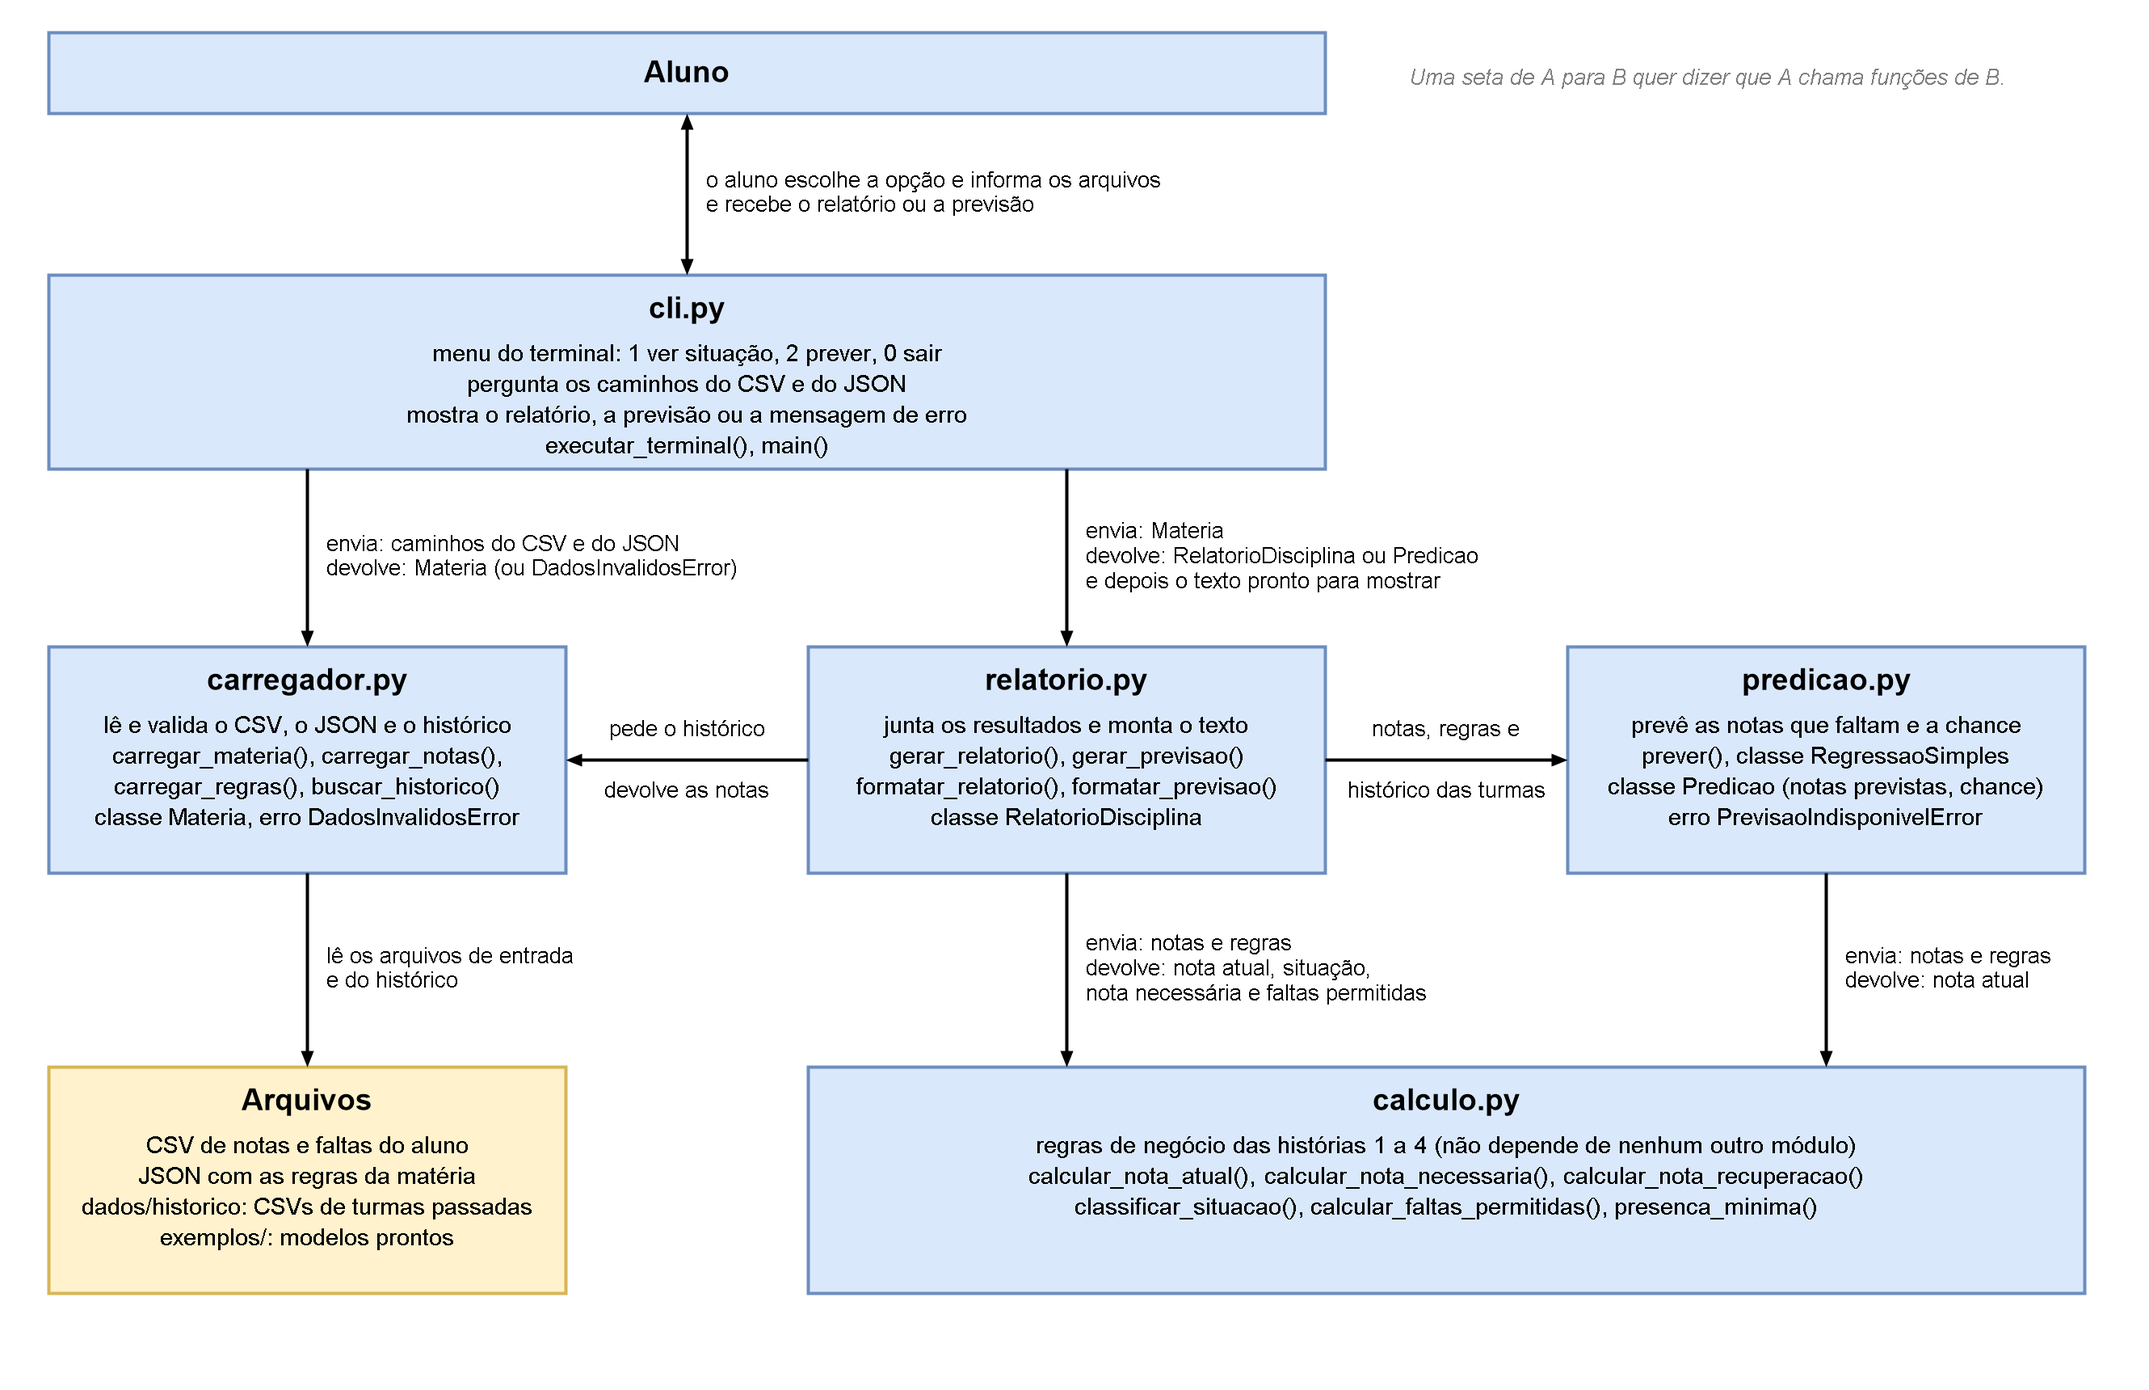
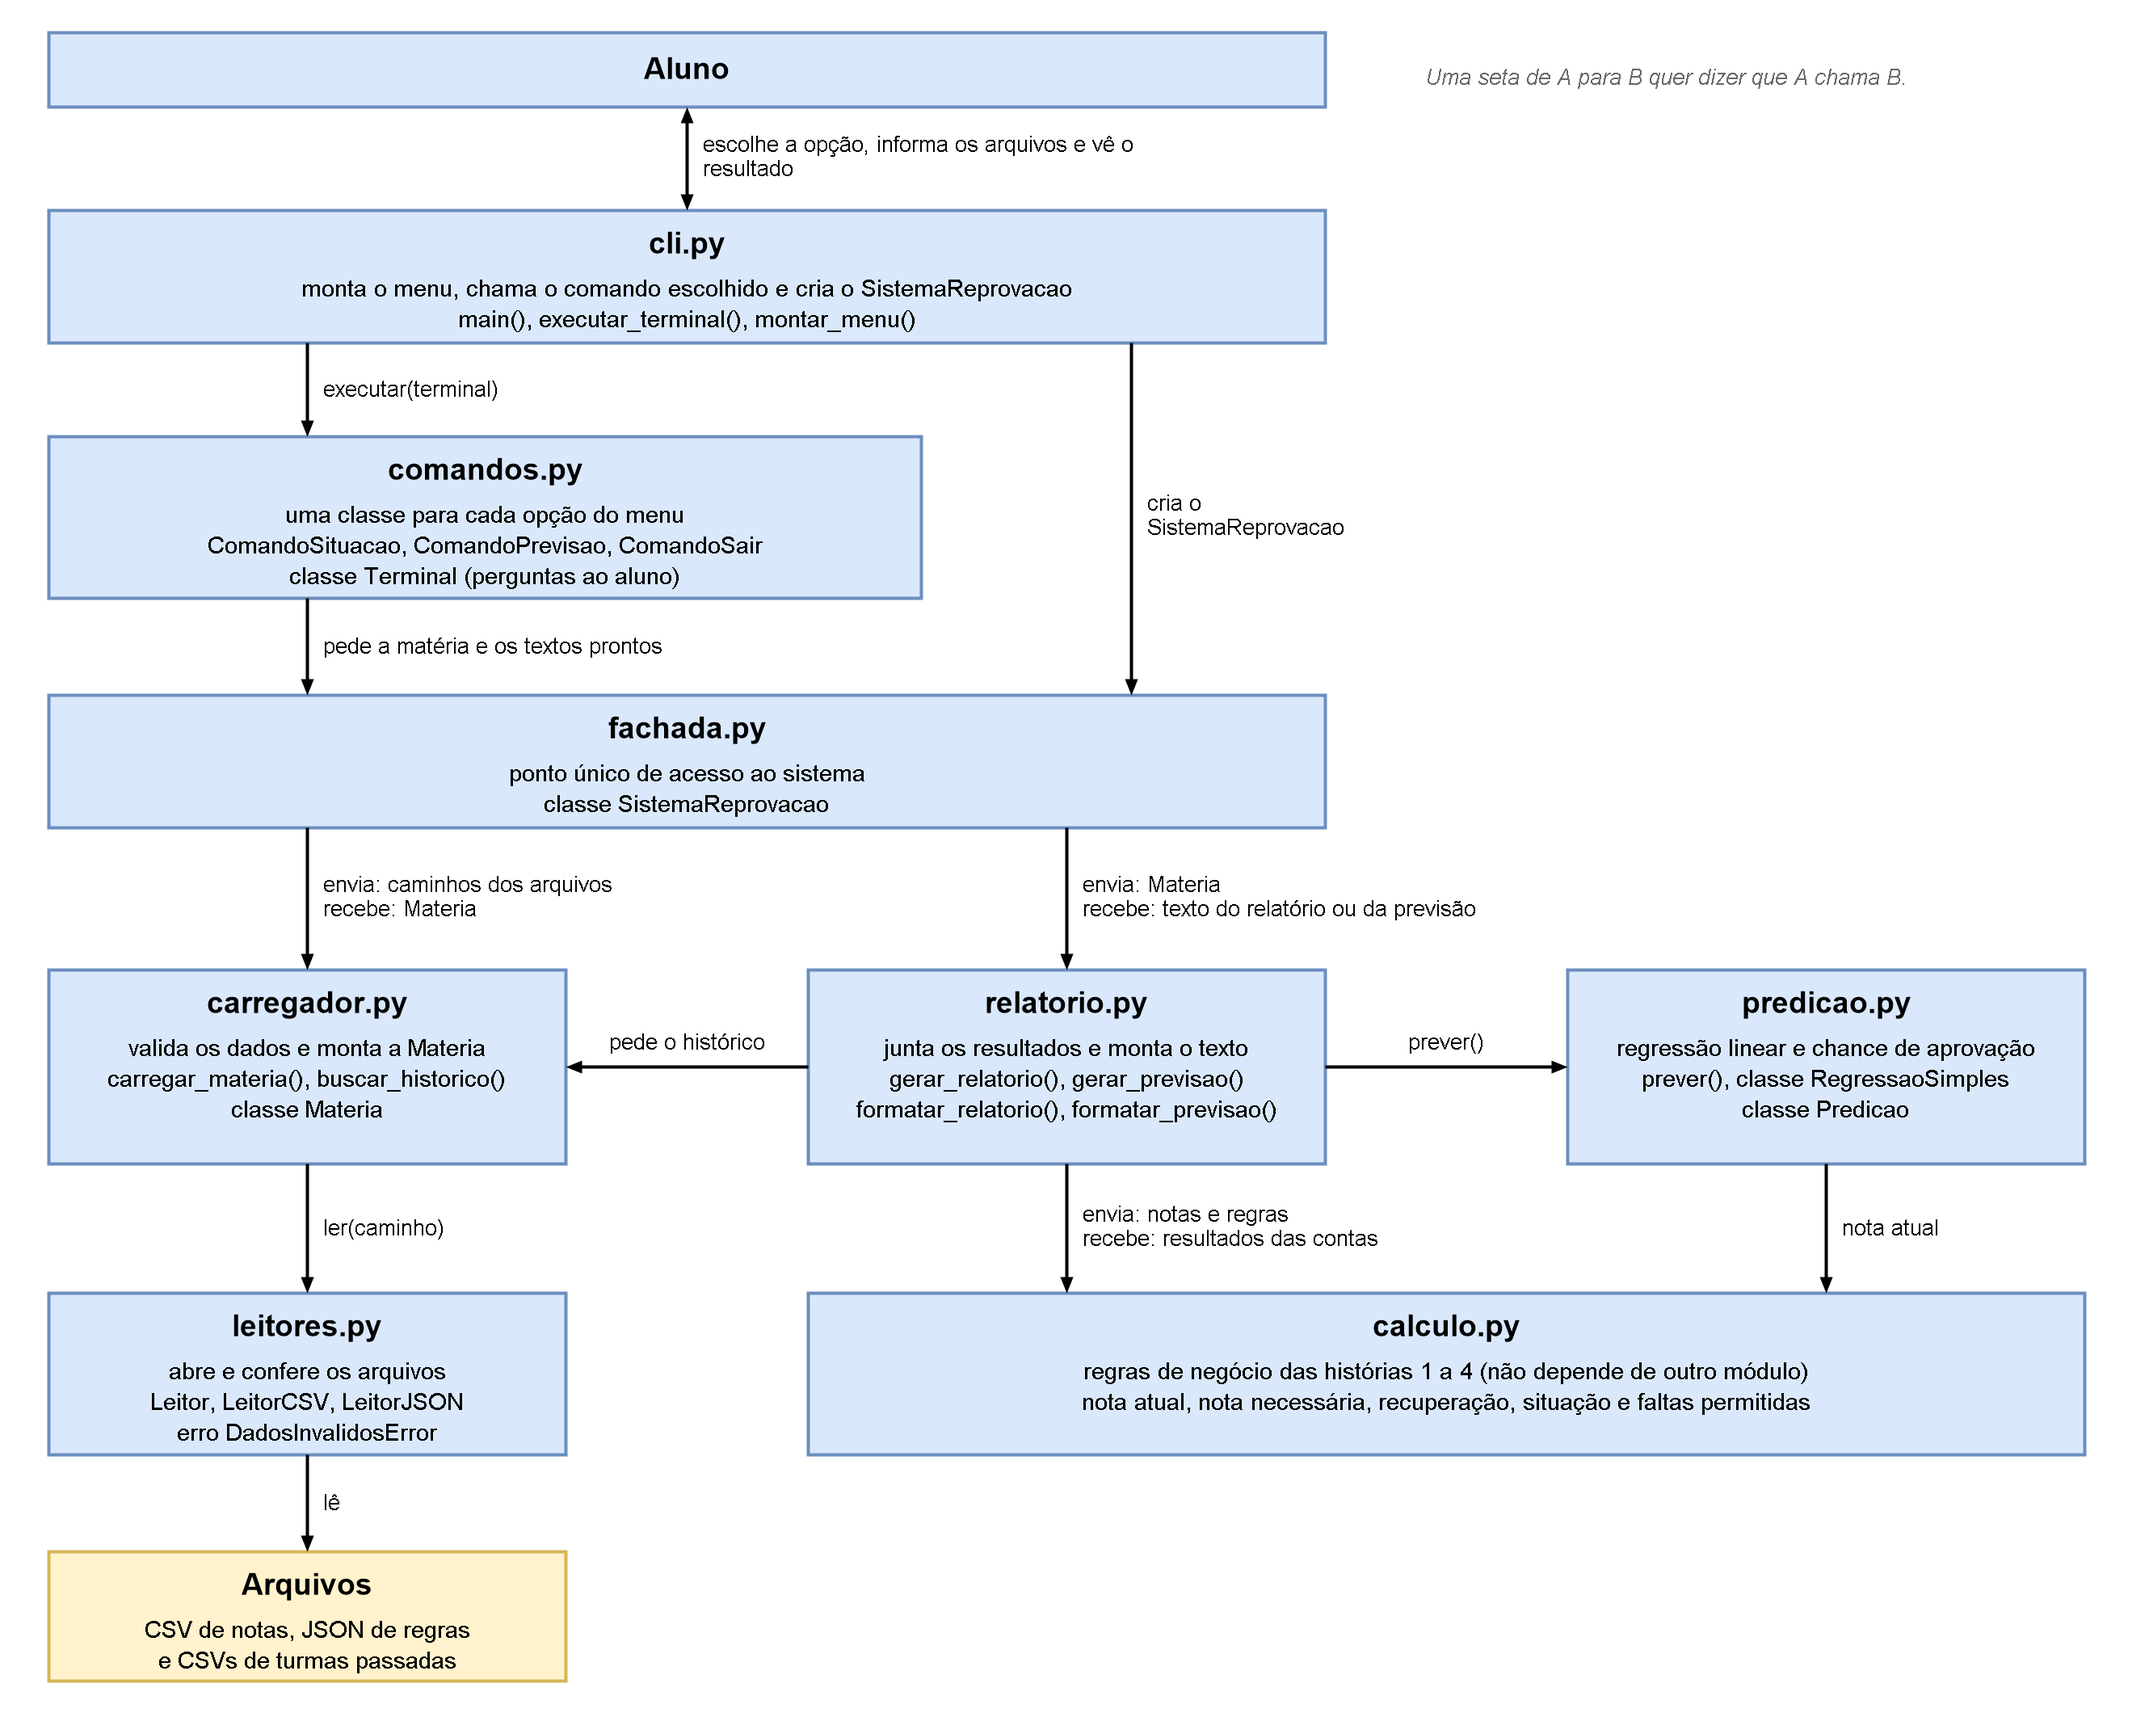
Atualiza diagramas e documenta os padroes

diff --git a/docs/padroes_de_projeto.md b/docs/padroes_de_projeto.md
@@ -1,0 +1,52 @@
+# Refatoração e padrões de projeto (Sprint 4)
+
+Nesta sprint o comportamento do sistema não mudou: a ideia foi reorganizar o código. Os 80 testes que já existiam continuam passando sem nenhuma alteração neles, e foram criados 23 testes para as classes novas (103 no total).
+
+## Template Method (`sistema/leitores.py`)
+
+![Template Method](padrao_template_method.png)
+
+**Problema.** O `carregador.py` tinha duas funções de leitura, uma para CSV e outra para JSON. As duas faziam a mesma sequência (ver se o arquivo existe, abrir, conferir o conteúdo) e a checagem de arquivo inexistente estava repetida.
+
+**Solução.** A classe `Leitor` tem o método `ler()`, que define a ordem dos passos: `verificar_existe`, `ler_conteudo` e `validar`. As classes `LeitorCSV` e `LeitorJSON` só escrevem os dois passos que mudam.
+
+**Por que esse padrão.** A ordem é sempre a mesma e só o miolo muda conforme o formato. Para aceitar um formato novo basta criar outra classe filha, sem mexer nas que já existem.
+
+**Ponto negativo.** Com apenas dois formatos, são mais linhas do que as duas funções antigas.
+
+## Facade (`sistema/fachada.py`)
+
+![Facade](padrao_facade.png)
+
+**Problema.** O terminal precisava conhecer o `carregador`, o `relatorio` e o `predicao`, além da ordem das chamadas (gerar e depois formatar).
+
+**Solução.** A classe `SistemaReprovacao` oferece quatro métodos: carregar a matéria, listar as matérias com previsão, relatório de situação e relatório de previsão. O terminal só fala com ela.
+
+**Por que esse padrão.** Separa a parte da tela da parte que faz o trabalho. Se um dia existir outra interface, ela pode usar a mesma fachada.
+
+**Ponto negativo.** É uma camada a mais, e uma função nova do sistema precisa ganhar um método na fachada.
+
+## Command (`sistema/comandos.py`)
+
+![Command](padrao_command.png)
+
+**Problema.** O menu era uma sequência de `if` e `elif`. Para criar uma opção era preciso mudar o texto do menu, o `if` e a mensagem de opção inválida.
+
+**Solução.** Cada opção virou uma classe que herda de `Comando` e tem `tecla`, `descricao` e `executar(terminal)`. O `cli.py` monta o menu a partir da lista `COMANDOS`. A classe `Terminal` guarda o que os comandos precisam: a fachada, a entrada, a saída e os últimos arquivos usados.
+
+**Por que esse padrão.** Uma opção nova é uma classe nova e um item na lista. O menu e a mensagem de erro se ajustam sozinhos.
+
+**Ponto negativo.** Para três opções, o `if` antigo era mais curto de ler.
+
+## Outras refatorações
+
+| Onde | Antes | Depois |
+|---|---|---|
+| `calculo.py` | `if` para cada faixa de presença | tabela `FAIXAS_PRESENCA` percorrida em um laço |
+| `calculo.py` | `classificar_situacao` fazia tudo em uma função | dividida em `_classificar_com_presenca` e `_frequencia_suficiente` |
+| `calculo.py` | tolerância `_EPS` repetida em várias comparações | função `_atingiu(valor, minimo)` |
+| `predicao.py` | `prever` com filtro, treino e chance juntos | funções `_alunos_para_treino`, `_treinar_modelos`, `_limitar_nota` e `_calcular_chance` |
+
+## Como conferimos
+
+A cada passo da refatoração rodamos `python -m pytest`. Os testes antigos não foram editados, então servem para mostrar que o comportamento se manteve.

diff --git a/docs/testes_e_criterios.md b/docs/testes_e_criterios.md
@@ -1,0 +1,40 @@
+# Relação entre testes e critérios de aceitação
+
+Os critérios estão em [historia_usuario.md](historia_usuario.md). Cada teste das histórias começa a docstring com o código do critério (por exemplo, `H3-C2` é a história 3, critério 2).
+
+| Critério | Arquivo | Teste |
+|---|---|---|
+| H1-C1 | `test/test1.py` | `test_criterios_prof` |
+| H1-C2 | `test/test1.py` | `test_calcular_notas` |
+| H1-C3 | `test/test1.py` | `test_av_pendentes` |
+| H1-C4 | `test/test1.py` | `test_nota_atual` |
+| H2-C1 | `test/test2.py` | `test_verifica_nota_atual` |
+| H2-C2 | `test/test2.py` | `test_verifica_reprovacao` |
+| H2-C3 | `test/test2.py` | `test_verifica_possibilidades` |
+| H2-C4 | `test/test2.py` | `test_verifica_nota_presenca` e `test_verifica_nota_presenca_atual` |
+| H3-C1 | `test/test3.py` | `test_informa_aulas_e_faltas` |
+| H3-C2 | `test/test3.py` | `test_limite_depende_da_nota` |
+| H3-C3 | `test/test3.py` | `test_regras_fixas_de_presenca` |
+| H3-C4 | `test/test3.py` | `test_faltas_permitidas_com_nota_6` |
+| H4-C1 | `test/test4.py` | `test_nota_necessaria` |
+| H4-C2 | `test/test4.py` | `test_ja_aprovado` |
+| H4-C3 | `test/test4.py` | `test_recuperacao` |
+| H4-C4 | `test/test4.py` | `test_reprovado` e `test_nota_necessaria_recuperacao` |
+
+São 18 testes para os 16 critérios.
+
+## Testes dos módulos
+
+Além dos testes das histórias, cada módulo tem testes próprios:
+
+| Arquivo | O que testa | Testes |
+|---|---|---|
+| `test/test_carregador.py` | leitura e validação de CSV, JSON, frequência e histórico | 31 |
+| `test/test_predicao.py` | regressão, nota prevista e chance de aprovação | 12 |
+| `test/test_relatorio.py` | relatório, previsão e formatação do texto | 12 |
+| `test/test_cli.py` | menu e comando `python -m sistema` | 7 |
+| `test/test_leitores.py` | passos do Template Method e leitores | 10 |
+| `test/test_fachada.py` | métodos da fachada | 5 |
+| `test/test_comandos.py` | cada comando e a montagem do menu | 8 |
+
+Total: 103 testes. Para rodar tudo: `python -m pytest`. O arquivo `test/test_regras_negocio.py` só reúne os testes de `test1.py` a `test4.py`, para o pytest encontrá-los.
